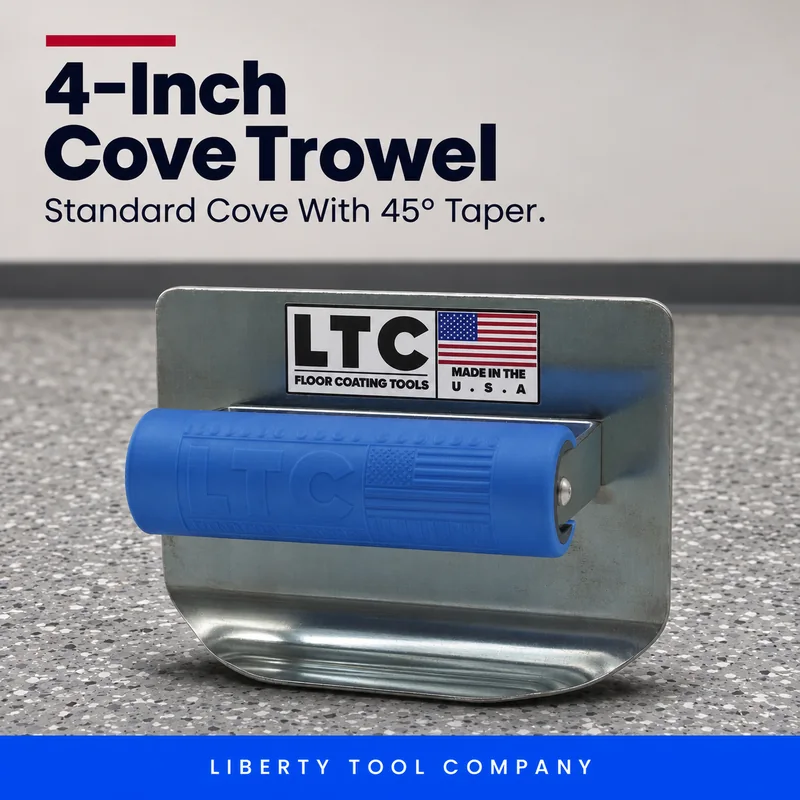
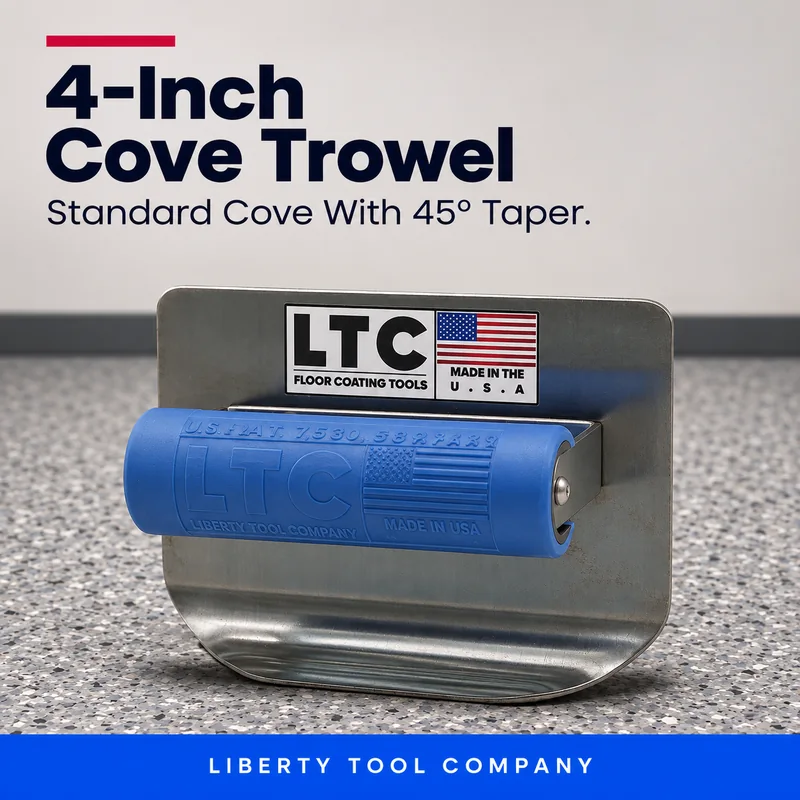
Match Shopify: 4" and 6" Standard Cove w/45 cards use the versions on the Shopify listings

Changed region(s): [[0.0, 0.3125, 1.0, 0.9688], [0.0625, 0.0312, 0.75, 0.2812]]

diff --git a/public/option-2/index.html b/public/option-2/index.html
@@ -1078,9 +1078,9 @@ var CROP = { lowboy: '/assets/crop-lowboy.webp', c2: '/assets/crop-c2.webp', c4:
 var TOOLS = [
   { id: 'trowel', group: 'trowel', name: '6" Snub Flat Hanging Trowel', tag: 'LTC Trowels', sku: 'LTC-SNUB', price: 39.99, img: '/assets/card-snub.webp?v=3', alt: '/assets/sq-snub.webp', body: 'A 6 inch snub-nose flat trowel for hanging and finishing work.', points: ['6 inch flat steel blade', 'Snub nose', 'Soft blue grip', 'Made in the USA'], url: '6-snub-flat-hanging-trowel' },
   { id: 'covetrowel', group: 'trowel', name: '4" Standard Cove Trowel', tag: 'LTC Trowels', sku: 'LTC-45CT', price: 28.99, img: '/assets/card-ct4.webp?v=3', alt: '/assets/sq-covet.webp', body: 'A 4 inch standard cove trowel for shaping cove where the floor meets the wall.', points: ['4 inch standard cove', 'Riveted steel handle', 'Blue grip with LTC branding', 'Made in the USA'], url: '4-standard-cove-trowel' },
-  { id: 'ct4t', group: 'trowel', name: '4" Standard Cove Trowel w/ 45° Taper', tag: 'LTC Trowels', sku: 'LTC-45CTW45', price: 31.99, img: '/assets/card-ct4t.webp?v=3', alt: '/assets/sq-ct4t.webp', body: 'A 4 inch standard cove trowel with a 45 degree taper.', points: ['4 inch standard cove', '45° taper', 'Made in the USA'], url: '4-standard-cove-trowel-w45' },
+  { id: 'ct4t', group: 'trowel', name: '4" Standard Cove Trowel w/ 45° Taper', tag: 'LTC Trowels', sku: 'LTC-45CTW45', price: 31.99, img: '/assets/card-ct4t.webp?v=4', alt: '/assets/sq-ct4t.webp', body: 'A 4 inch standard cove trowel with a 45 degree taper.', points: ['4 inch standard cove', '45° taper', 'Made in the USA'], url: '4-standard-cove-trowel-w45' },
   { id: 'ct6', group: 'trowel', name: '6" Standard Cove Trowel', tag: 'LTC Trowels', sku: 'LTC-65CT', price: 29.99, img: '/assets/card-ct6.webp?v=3', alt: '/assets/sq-ct6.webp', body: 'A 6 inch standard cove trowel for taller cove details.', points: ['6 inch standard cove', 'Made in the USA'], url: '6-standard-cove-trowel' },
-  { id: 'ct6t', group: 'trowel', name: '6" Standard Cove Trowel w/ 45° Taper', tag: 'LTC Trowels', sku: 'LTC-65CTW45', price: 32.99, img: '/assets/card-ct6t.webp?v=3', alt: '/assets/sq-ct6t.webp', body: 'A 6 inch standard cove trowel with a 45 degree taper.', points: ['6 inch standard cove', '45° taper', 'Made in the USA'], url: '6-standard-cove-trowel-w45' },
+  { id: 'ct6t', group: 'trowel', name: '6" Standard Cove Trowel w/ 45° Taper', tag: 'LTC Trowels', sku: 'LTC-65CTW45', price: 32.99, img: '/assets/card-ct6t.webp?v=4', alt: '/assets/sq-ct6t.webp', body: 'A 6 inch standard cove trowel with a 45 degree taper.', points: ['6 inch standard cove', '45° taper', 'Made in the USA'], url: '6-standard-cove-trowel-w45' },
   { id: 'cct', group: 'trowel', name: '2" Cant Cove Trowel', tag: 'LTC Trowels', sku: 'LTC-CCT', price: 34.99, img: '/assets/card-cct.webp?v=3', alt: '/assets/sq-cct.webp', body: 'A 2 inch cant cove trowel for shaping a straight angled cove.', points: ['2 inch cant cove', 'Made in the USA'], url: '2-cant-cove-trowel' },
   { id: 'cct45', group: 'trowel', name: '2" Cant Cove Trowel w/ 45° Taper', tag: 'LTC Trowels', sku: 'LTC-CCTW45', price: 39.99, img: '/assets/card-cct45.webp?v=3', alt: '/assets/sq-cct45.webp', body: 'A 2 inch cant cove trowel with a 45 degree taper.', points: ['2 inch cant cove', '45° taper', 'Made in the USA'], url: '2-cant-cove-trowel-w45' },
   { id: 'marg', group: 'trowel', name: '8" Marginal Trowel', tag: 'LTC Trowels', sku: '', price: 23.99, img: '/assets/card-marg.webp', body: 'An 8 inch marginal trowel for tight spots, edges and detail work.', points: ['8 inch blade', 'For edges and detail work', 'Made in the USA'], url: '8-marginal-trowel' },

diff --git a/public/admin/option-2/index.html b/public/admin/option-2/index.html
@@ -2113,9 +2113,9 @@ var TRW = [
   { id: 'cct', name: '2" Cant Cove Trowel', sku: 'LTC-CCT', gtin: '00850089875088', msrp: 34.99, dist: 20.50, img: '/assets/card-cct.webp?v=3', spec: '2 inch cant cove', body: 'A 2 inch cant cove trowel for shaping a straight angled cove.', pts: ['2 inch cant cove', 'Made in the USA'] },
   { id: 'cct45', name: '2" Cant Cove Trowel w/ 45° Taper', sku: 'LTC-CCTW45', gtin: '00850089875055', msrp: 39.99, dist: 23.50, img: '/assets/card-cct45.webp?v=3', spec: '2 inch cant cove, 45° taper', body: 'A 2 inch cant cove trowel with a 45 degree taper.', pts: ['2 inch cant cove', '45° taper', 'Made in the USA'] },
   { id: 'ct4', name: '4" Standard Cove Trowel', sku: 'LTC-45CT', gtin: '00850089875064', msrp: 28.99, dist: 18.00, img: '/assets/card-ct4.webp?v=3', spec: '4 inch standard cove', body: 'A 4 inch standard cove trowel for shaping cove where the floor meets the wall.', pts: ['4 inch standard cove', 'Made in the USA'] },
-  { id: 'ct4t', name: '4" Standard Cove Trowel w/ 45° Taper', sku: 'LTC-45CTW45', gtin: '00850089875071', msrp: 31.99, dist: 19.50, img: '/assets/card-ct4t.webp?v=3', spec: '4 inch standard cove, 45° taper', body: 'A 4 inch standard cove trowel with a 45 degree taper.', pts: ['4 inch standard cove', '45° taper', 'Made in the USA'] },
+  { id: 'ct4t', name: '4" Standard Cove Trowel w/ 45° Taper', sku: 'LTC-45CTW45', gtin: '00850089875071', msrp: 31.99, dist: 19.50, img: '/assets/card-ct4t.webp?v=4', spec: '4 inch standard cove, 45° taper', body: 'A 4 inch standard cove trowel with a 45 degree taper.', pts: ['4 inch standard cove', '45° taper', 'Made in the USA'] },
   { id: 'ct6', name: '6" Standard Cove Trowel', sku: 'LTC-65CT', gtin: '00850089875057', msrp: 29.99, dist: 18.00, img: '/assets/card-ct6.webp?v=3', spec: '6 inch standard cove', body: 'A 6 inch standard cove trowel for taller cove details.', pts: ['6 inch standard cove', 'Made in the USA'] },
-  { id: 'ct6t', name: '6" Standard Cove Trowel w/ 45° Taper', sku: 'LTC-65CTW45', gtin: '00850089875095', msrp: 32.99, dist: 19.50, img: '/assets/card-ct6t.webp?v=3', spec: '6 inch standard cove, 45° taper', body: 'A 6 inch standard cove trowel with a 45 degree taper.', pts: ['6 inch standard cove', '45° taper', 'Made in the USA'] },
+  { id: 'ct6t', name: '6" Standard Cove Trowel w/ 45° Taper', sku: 'LTC-65CTW45', gtin: '00850089875095', msrp: 32.99, dist: 19.50, img: '/assets/card-ct6t.webp?v=4', spec: '6 inch standard cove, 45° taper', body: 'A 6 inch standard cove trowel with a 45 degree taper.', pts: ['6 inch standard cove', '45° taper', 'Made in the USA'] },
   { id: 'strap', name: 'Broadcast Strap', sku: 'LTC-BCSTRAP', gtin: '00850089875132', msrp: 64.99, dist: 44.99, img: '/assets/card-strap.webp?v=3', spec: 'Broadcast strap', body: 'A broadcast strap for even, hands-steady broadcasting of flake and aggregate.', pts: ['For flake and aggregate broadcast', 'Made in the USA'] }
 ];
 var CADDY_SKU = { lowboy: ['LTC-LBO', '850089875002'], c2: ['LTC-2TC', '850089875019'], c4: ['LTC-4TC', '850089875026'], c6: ['LTC-6TC', '850089875033'] };

diff --git a/public/partner-portal/option-2/index.html b/public/partner-portal/option-2/index.html
@@ -2113,9 +2113,9 @@ var TRW = [
   { id: 'cct', name: '2" Cant Cove Trowel', sku: 'LTC-CCT', gtin: '00850089875088', msrp: 34.99, dist: 20.50, img: '/assets/card-cct.webp?v=3', spec: '2 inch cant cove', body: 'A 2 inch cant cove trowel for shaping a straight angled cove.', pts: ['2 inch cant cove', 'Made in the USA'] },
   { id: 'cct45', name: '2" Cant Cove Trowel w/ 45° Taper', sku: 'LTC-CCTW45', gtin: '00850089875055', msrp: 39.99, dist: 23.50, img: '/assets/card-cct45.webp?v=3', spec: '2 inch cant cove, 45° taper', body: 'A 2 inch cant cove trowel with a 45 degree taper.', pts: ['2 inch cant cove', '45° taper', 'Made in the USA'] },
   { id: 'ct4', name: '4" Standard Cove Trowel', sku: 'LTC-45CT', gtin: '00850089875064', msrp: 28.99, dist: 18.00, img: '/assets/card-ct4.webp?v=3', spec: '4 inch standard cove', body: 'A 4 inch standard cove trowel for shaping cove where the floor meets the wall.', pts: ['4 inch standard cove', 'Made in the USA'] },
-  { id: 'ct4t', name: '4" Standard Cove Trowel w/ 45° Taper', sku: 'LTC-45CTW45', gtin: '00850089875071', msrp: 31.99, dist: 19.50, img: '/assets/card-ct4t.webp?v=3', spec: '4 inch standard cove, 45° taper', body: 'A 4 inch standard cove trowel with a 45 degree taper.', pts: ['4 inch standard cove', '45° taper', 'Made in the USA'] },
+  { id: 'ct4t', name: '4" Standard Cove Trowel w/ 45° Taper', sku: 'LTC-45CTW45', gtin: '00850089875071', msrp: 31.99, dist: 19.50, img: '/assets/card-ct4t.webp?v=4', spec: '4 inch standard cove, 45° taper', body: 'A 4 inch standard cove trowel with a 45 degree taper.', pts: ['4 inch standard cove', '45° taper', 'Made in the USA'] },
   { id: 'ct6', name: '6" Standard Cove Trowel', sku: 'LTC-65CT', gtin: '00850089875057', msrp: 29.99, dist: 18.00, img: '/assets/card-ct6.webp?v=3', spec: '6 inch standard cove', body: 'A 6 inch standard cove trowel for taller cove details.', pts: ['6 inch standard cove', 'Made in the USA'] },
-  { id: 'ct6t', name: '6" Standard Cove Trowel w/ 45° Taper', sku: 'LTC-65CTW45', gtin: '00850089875095', msrp: 32.99, dist: 19.50, img: '/assets/card-ct6t.webp?v=3', spec: '6 inch standard cove, 45° taper', body: 'A 6 inch standard cove trowel with a 45 degree taper.', pts: ['6 inch standard cove', '45° taper', 'Made in the USA'] },
+  { id: 'ct6t', name: '6" Standard Cove Trowel w/ 45° Taper', sku: 'LTC-65CTW45', gtin: '00850089875095', msrp: 32.99, dist: 19.50, img: '/assets/card-ct6t.webp?v=4', spec: '6 inch standard cove, 45° taper', body: 'A 6 inch standard cove trowel with a 45 degree taper.', pts: ['6 inch standard cove', '45° taper', 'Made in the USA'] },
   { id: 'strap', name: 'Broadcast Strap', sku: 'LTC-BCSTRAP', gtin: '00850089875132', msrp: 64.99, dist: 44.99, img: '/assets/card-strap.webp?v=3', spec: 'Broadcast strap', body: 'A broadcast strap for even, hands-steady broadcasting of flake and aggregate.', pts: ['For flake and aggregate broadcast', 'Made in the USA'] }
 ];
 var CADDY_SKU = { lowboy: ['LTC-LBO', '850089875002'], c2: ['LTC-2TC', '850089875019'], c4: ['LTC-4TC', '850089875026'], c6: ['LTC-6TC', '850089875033'] };
